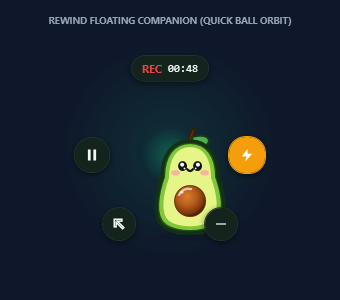
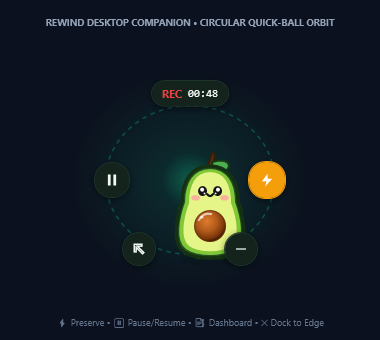
docs: enhance circular orbital menu screenshot and documentation around Mochi

diff --git a/Rewind.Tests/ScreenshotGenerator.cs b/Rewind.Tests/ScreenshotGenerator.cs
@@ -356,50 +356,78 @@ namespace Rewind.Tests
             var content = (FrameworkElement)hudWindow.Content;
             hudWindow.Content = null;
 
-            int w = 340;
-            int h = 300;
+            int w = 380;
+            int h = 340;
 
             // Sleek desktop mockup background
             var container = new Grid
             {
                 Width = w,
                 Height = h,
-                Background = new SolidColorBrush(Color.FromRgb(0x0F, 0x17, 0x2A)) // Deep slate wallpaper
+                Background = new SolidColorBrush(Color.FromRgb(0x0B, 0x11, 0x1E)) // Deep slate wallpaper
             };
 
             // Glow aura behind floating orbit
             var orbitGlow = new Ellipse
             {
-                Width = 220,
+                Width = 240,
                 Height = 220,
                 HorizontalAlignment = HorizontalAlignment.Center,
                 VerticalAlignment = VerticalAlignment.Center,
+                Margin = new Thickness(0, 20, 0, 0),
                 Fill = new RadialGradientBrush
                 {
                     GradientStops = new GradientStopCollection
                     {
-                        new GradientStop(Color.FromArgb(0x28, 0x10, 0xB9, 0x81), 0),
+                        new GradientStop(Color.FromArgb(0x30, 0x10, 0xB9, 0x81), 0),
                         new GradientStop(Color.FromArgb(0x00, 0x10, 0xB9, 0x81), 1)
                     }
                 }
             };
             container.Children.Add(orbitGlow);
 
+            // Circular orbit dashed ring around Mochi connecting all satellite buttons
+            var orbitGuideRing = new Ellipse
+            {
+                Width = 170,
+                Height = 150,
+                HorizontalAlignment = HorizontalAlignment.Center,
+                VerticalAlignment = VerticalAlignment.Center,
+                Margin = new Thickness(0, 20, 0, 0),
+                Stroke = new SolidColorBrush(Color.FromArgb(0x55, 0x10, 0xB9, 0x81)),
+                StrokeThickness = 1.5,
+                StrokeDashArray = new DoubleCollection { 3, 3 },
+                IsHitTestVisible = false
+            };
+            container.Children.Add(orbitGuideRing);
+
             var hudLabel = new TextBlock
             {
-                Text = "REWIND FLOATING COMPANION (QUICK BALL ORBIT)",
+                Text = "REWIND DESKTOP COMPANION • CIRCULAR QUICK-BALL ORBIT",
                 FontSize = 9.5,
                 FontWeight = FontWeights.Bold,
                 Foreground = new SolidColorBrush(Color.FromRgb(0x94, 0xA3, 0xB8)),
                 HorizontalAlignment = HorizontalAlignment.Center,
                 VerticalAlignment = VerticalAlignment.Top,
-                Margin = new Thickness(0, 14, 0, 0)
+                Margin = new Thickness(0, 16, 0, 0)
             };
             container.Children.Add(hudLabel);
 
+            // Add subtitle explaining the action buttons around the mascot
+            var hudSub = new TextBlock
+            {
+                Text = "⚡ Preserve • ⏸ Pause/Resume • 📑 Dashboard • ✕ Dock to Edge",
+                FontSize = 9,
+                Foreground = new SolidColorBrush(Color.FromRgb(0x64, 0x74, 0x8B)),
+                HorizontalAlignment = HorizontalAlignment.Center,
+                VerticalAlignment = VerticalAlignment.Bottom,
+                Margin = new Thickness(0, 0, 0, 12)
+            };
+            container.Children.Add(hudSub);
+
             content.HorizontalAlignment = HorizontalAlignment.Center;
             content.VerticalAlignment = VerticalAlignment.Center;
-            content.Margin = new Thickness(0, 10, 0, 0);
+            content.Margin = new Thickness(0, 20, 0, 0);
             container.Children.Add(content);
 
             container.Measure(new Size(w, h));

diff --git a/README.md b/README.md
@@ -45,20 +45,23 @@ Mochi stays with you during manual testing without blocking your viewport or tes
     <td align="center" width="50%">
       <strong>Secret Edge Peeking Mode</strong><br>
       <em>Mochi docks inclined against the screen bezel, watching secretly.</em><br><br>
-      <img src="docs/screenshots/floating_hud_peeking_edge.png" alt="Mochi Peeking on Screen Edge" width="340" />
+      <img src="docs/screenshots/floating_hud_peeking_edge.png" alt="Mochi Peeking on Screen Edge" width="360" />
     </td>
     <td align="center" width="50%">
-      <strong>Quick Ball Orbit Mode</strong><br>
-      <em>Click Mochi to emerge into an active orbit with REC timer &amp; actions.</em><br><br>
-      <img src="docs/screenshots/floating_hud_expanded.png" alt="Floating Quick Ball Orbit" width="340" />
+      <strong>Circular Quick Ball Orbit Mode</strong><br>
+      <em>Circular satellite actions orbit directly around Mochi on your desktop.</em><br><br>
+      <img src="docs/screenshots/floating_hud_expanded.png" alt="Circular Quick Ball Orbit Menu around Mochi" width="360" />
     </td>
   </tr>
 </table>
 
-- **⚡ Preserve Bug Action**: Captures the rolling buffer footage instantly.
-- **⏸ / ▶ Pause & Resume**: Freeze screen recording during breaks or confidential entry.
-- **📑 Studio Dashboard Shortcut**: Brings the main recording studio into focus.
-- **✕ Dock to Edge**: Retracts Mochi cleanly back to the nearest screen bezel.
+#### Circular Orbit Actions Around Mochi:
+- ⏱ **Live Buffer Timer (Top Center)**: Displays real-time `REC` state and elapsed rolling buffer time (`00:48`) with monospace typography.
+- ⚡ **Preserve Bug Action (Right Orb)**: Gold lightning-bolt button that instantly freezes and extracts preceding screen history.
+- ⏸ / ▶ **Pause & Resume (Left Orb)**: Temporarily halt screen recording during confidential credential entry or pauses.
+- 📑 **Studio Dashboard (Bottom Left Orb)**: Summons the main REWIND studio and session list.
+- ✕ **Dock to Edge (Bottom Right Orb)**: Retracts Mochi secretly back to the nearest screen bezel.
+- 🥑 **Center Mochi Avatar**: Click to toggle between docked and expanded circular orbital mode.
 
 ---
 
